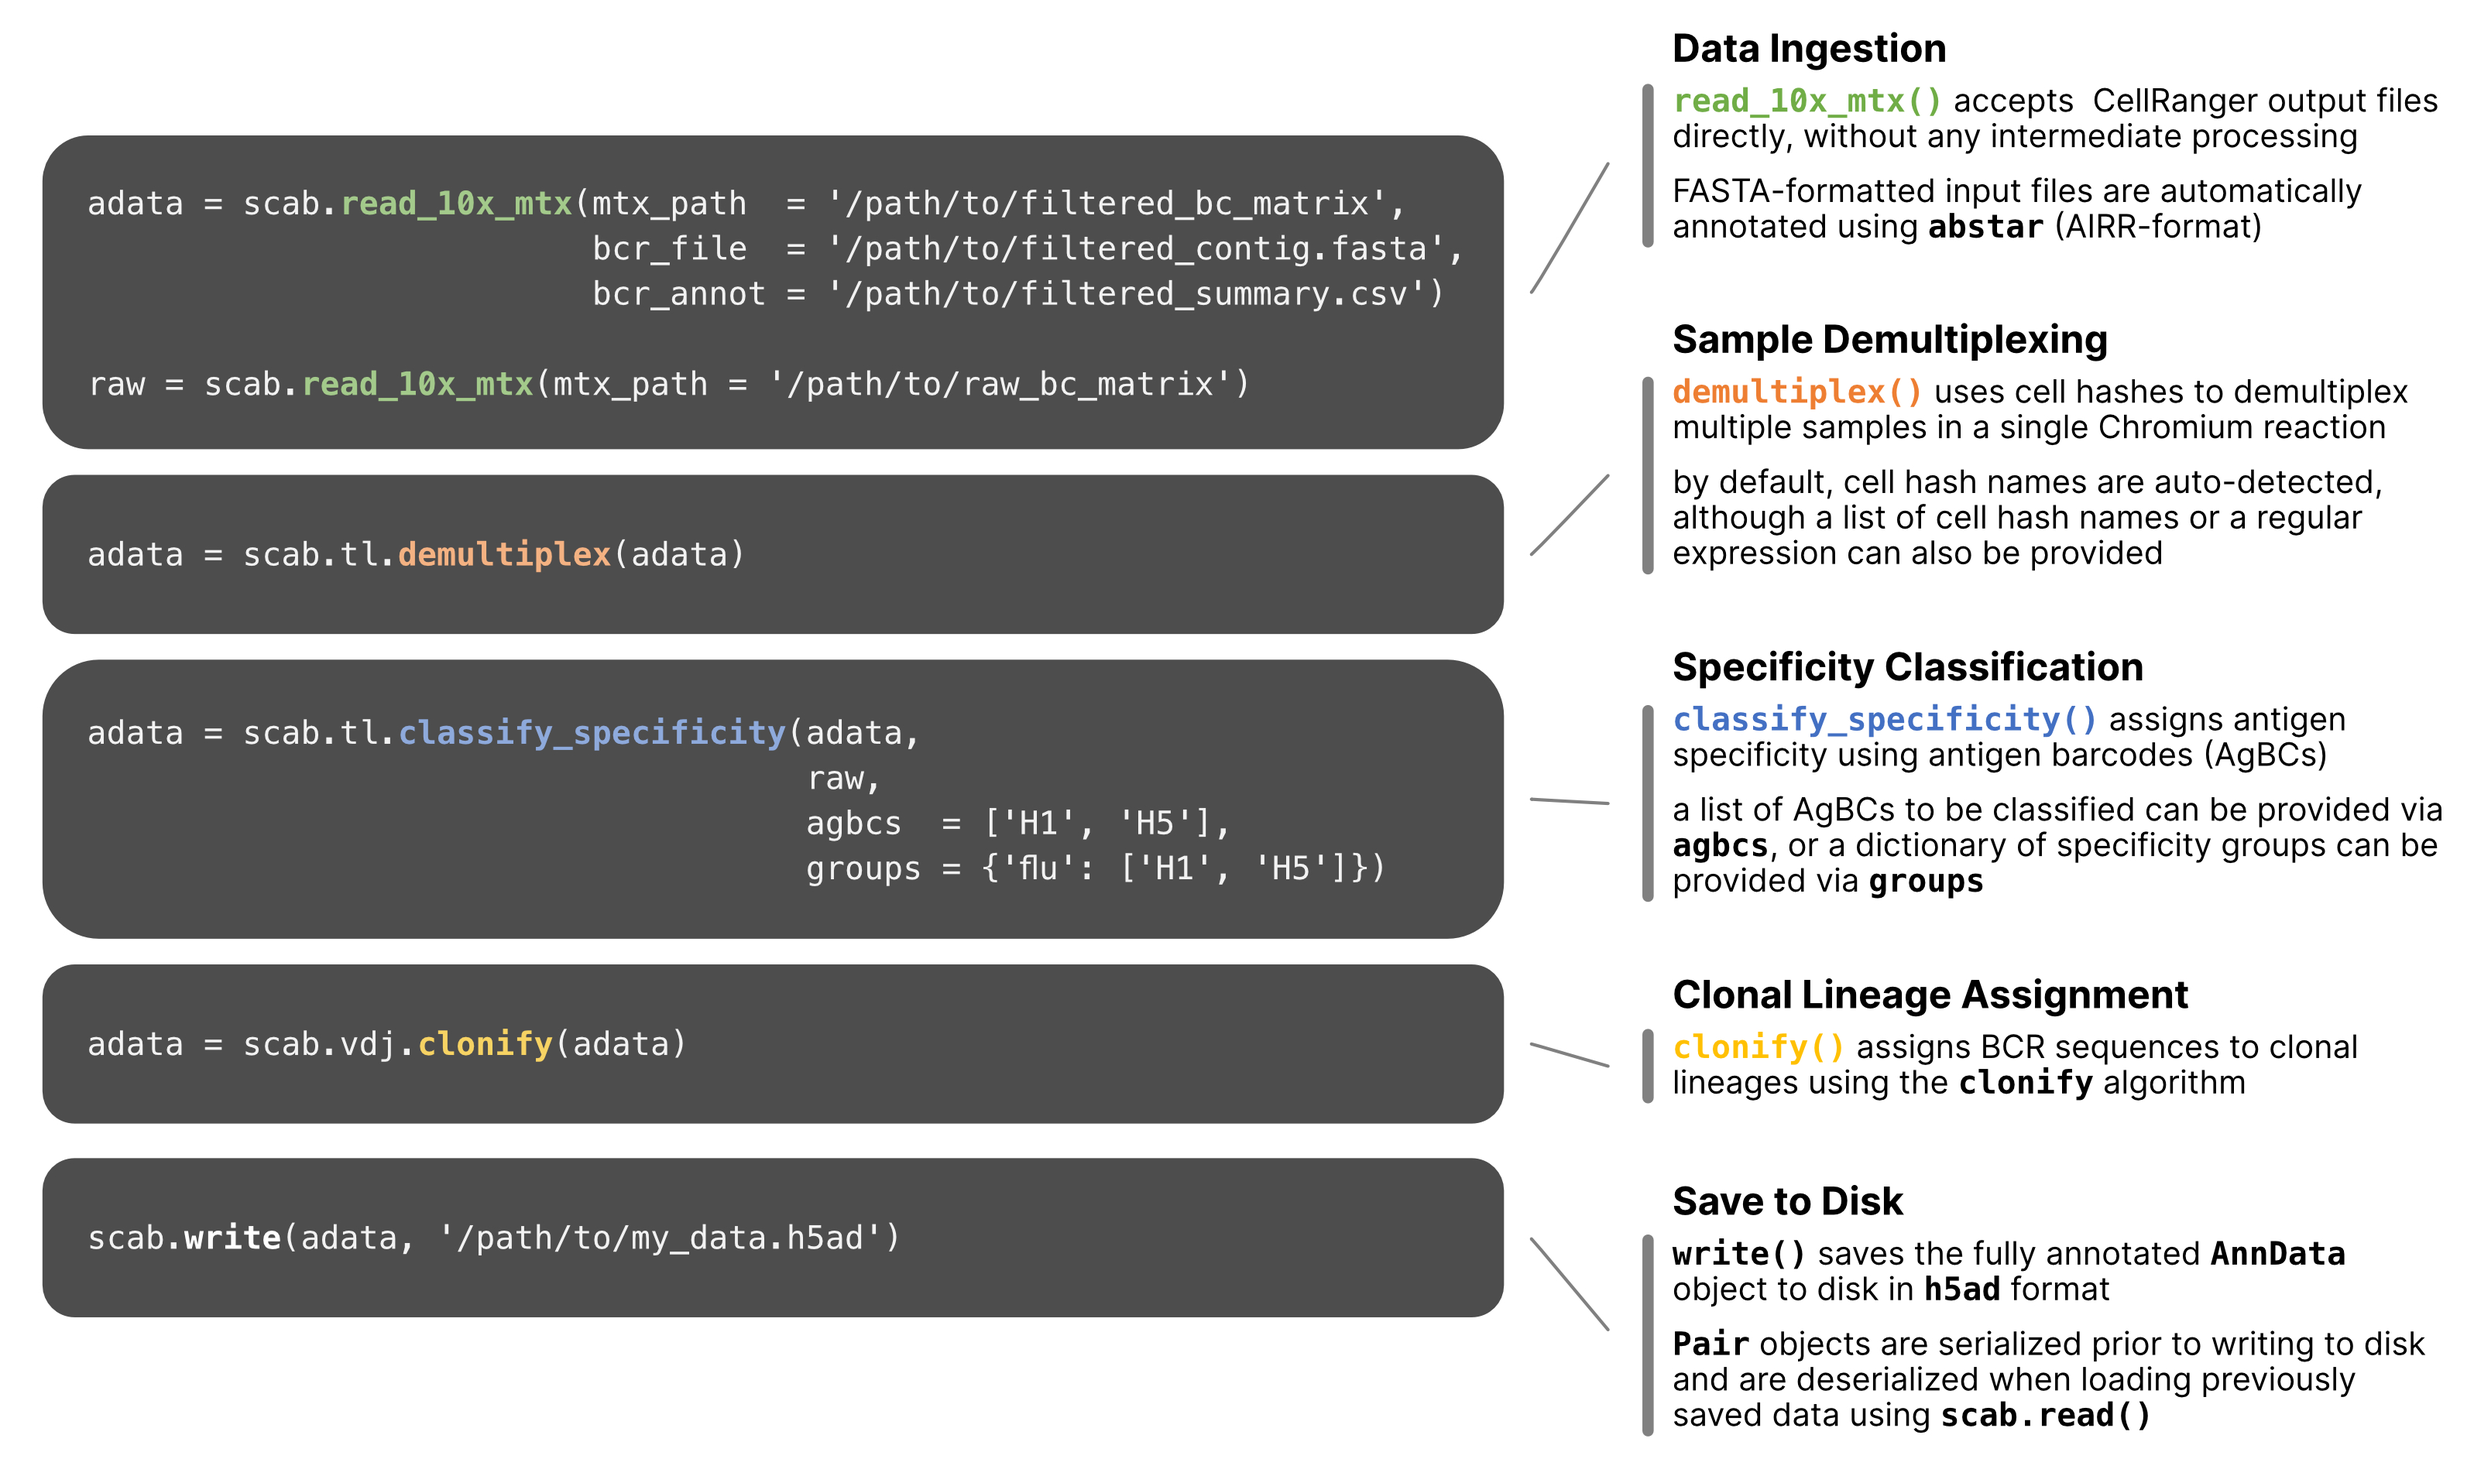
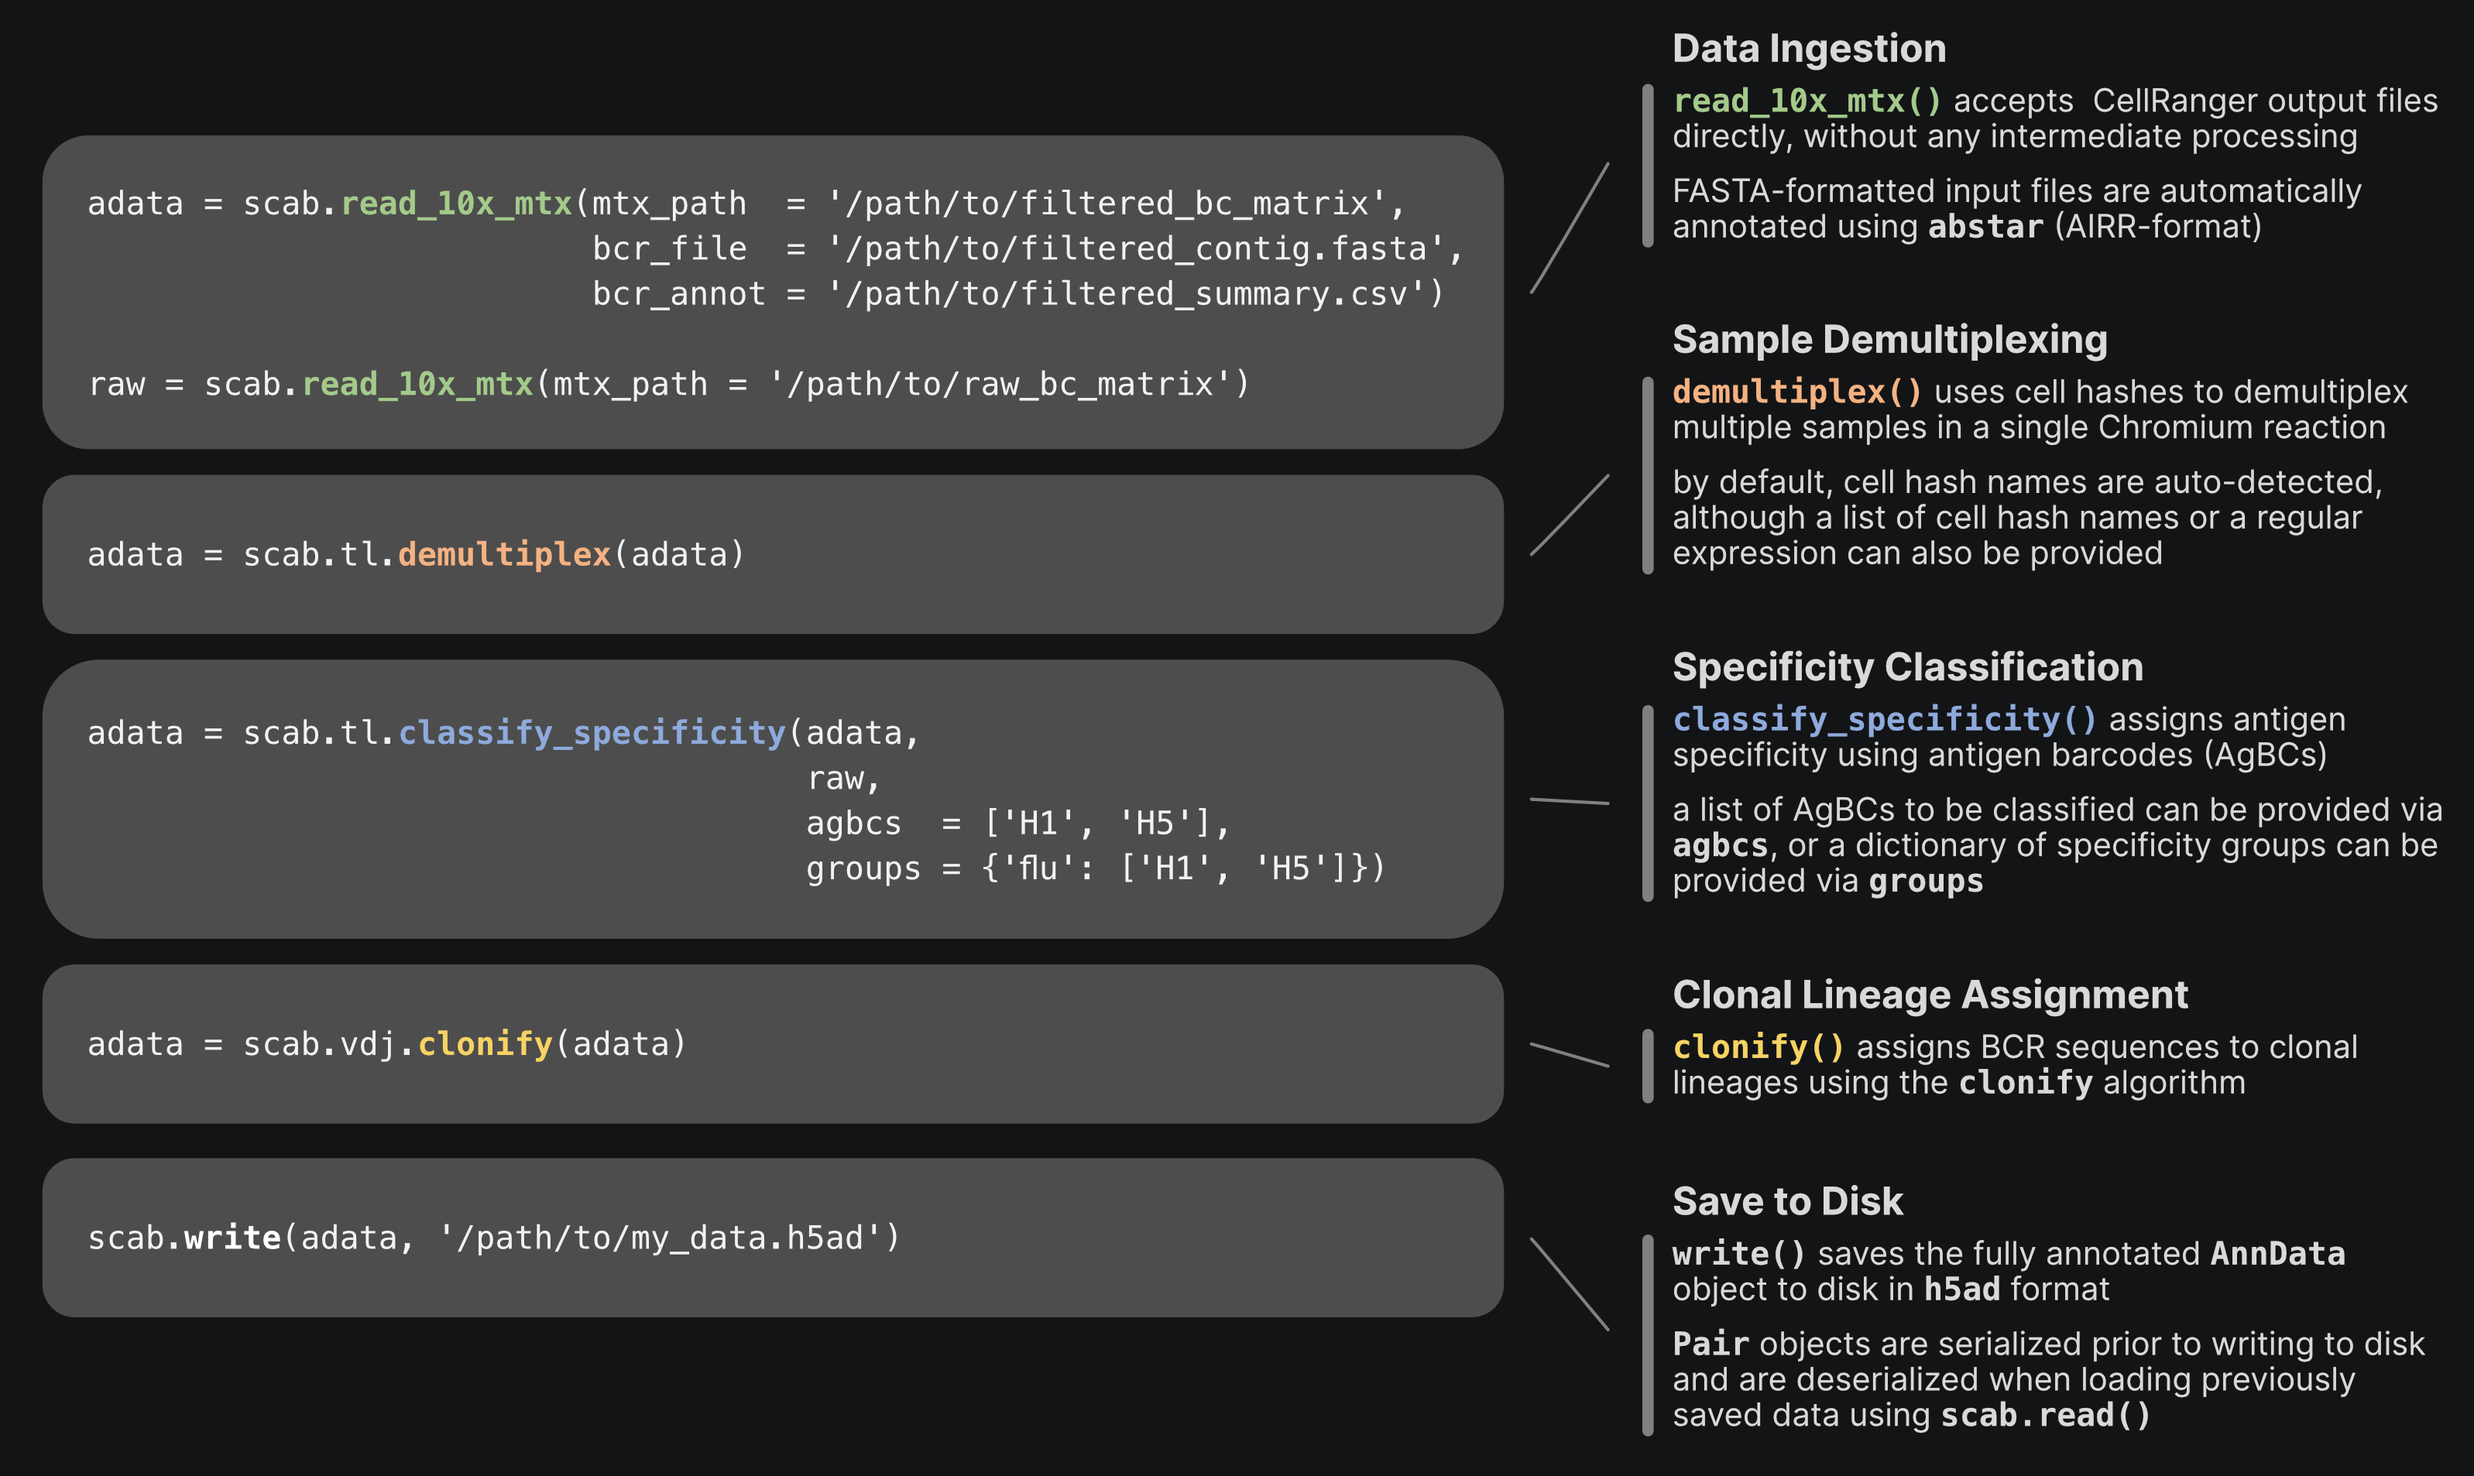
update docs

diff --git a/docs/source/conf.py b/docs/source/conf.py
@@ -153,6 +153,11 @@ todo_include_todos = False
 # html_theme = 'alabaster'
 # html_theme = 'sphinx_rtd_theme'
 html_theme = 'furo'
+# html_theme = 'pydata_sphinx_theme'
+# html_theme = 'sphinx_material'
+
+# html_permalinks_icon = '<span>#</span>'
+# html_theme = 'sphinxawesome_theme'
 
 # Theme options are theme-specific and customize the look and feel of a theme
 # further.  For a list of options available for each theme, see the

diff --git a/docs/source/index.rst b/docs/source/index.rst
@@ -7,11 +7,20 @@ visualizing single B cell multi-omics data. We have developed a simple,
 straightforward API (which will feel quite familiar to users of scanpy_) that 
 allows sophisticated analyses with just a few lines of code:  
 
+
+.. image:: images/scab_console-workflow.jpg
+  :width: 750
+  :alt: example workflow in scab
+  :align: center
+  :class: only-light
   
+
 .. image:: images/scab_console-workflow_inverted.jpg
   :width: 750
   :alt: example workflow in scab
   :align: center
+  :class: only-dark
+  
   
 |   
   
@@ -20,6 +29,7 @@ by scanpy_. We integrate several tools specifically designed to facilitate
 analysis of adaptive immune cells and repertoires.     
 
 
+|  
 
 .. toctree::
    :maxdepth: 1
@@ -29,6 +39,7 @@ analysis of adaptive immune cells and repertoires.
    installation
 
 
+|
 
 .. toctree::
    :maxdepth: 1
@@ -38,6 +49,7 @@ analysis of adaptive immune cells and repertoires.
    api
    
 
+|
 
 .. toctree::
    :maxdepth: 1
@@ -47,6 +59,7 @@ analysis of adaptive immune cells and repertoires.
    news
 
 
+|
 
 .. toctree::
    :maxdepth: 1
@@ -57,12 +70,6 @@ analysis of adaptive immune cells and repertoires.
    abcloud <https://github.com/briney/abcloud>
    clonify <https://github.com/briney/clonify-python>
 
-
-Index
------
-
-* :ref:`modindex`
-* :ref:`search`
 
 
 

diff --git a/docs/source/overview.rst b/docs/source/overview.rst
@@ -19,10 +19,10 @@ tools
 ---------
 
 scab provides a range of utilities for all stages of single cell 
-adaptive immune analysis, including `data I/O`_, immune receptor 
-annotation, sample `demultiplexing`_, antigen `specificity classification`_, 
-and `clonal lineage assignment`_. scab also includes 
-a variety of `visualization tools`_ designed to facilitate exploratory 
+adaptive immune analysis, including data I/O, immune receptor 
+annotation, sample demultiplexing, antigen specificity classification, 
+and clonal lineage assignment. scab also includes 
+a variety of visualization tools designed to facilitate exploratory 
 analyses and generate publication-quality figures.  
 
 
@@ -41,8 +41,5 @@ format, ensuring interoperability with a wide range of existing
 and future software.
 
 
-.. _scanpy: 
-.. _data I/O: io_
-
-.. _visualization tools: pl_
+.. _scanpy: https://github.com/scverse/scanpy
 

diff --git a/docs/source/api.rst b/docs/source/api.rst
@@ -1,4 +1,4 @@
-API reference
+api reference
 =============
 
 
@@ -7,8 +7,6 @@ API reference
     modules/io
 
 
-pp
--------------
 
 .. toctree::
 
@@ -16,17 +14,11 @@ pp
 
 
 
-vdj
------------------
-
 .. toctree::
 
     modules/vdj
 
 
-
-tl
------------------
 
 .. toctree::
 
@@ -34,8 +26,6 @@ tl
 
 
 
-pl
------------------
 
 .. toctree::
 
